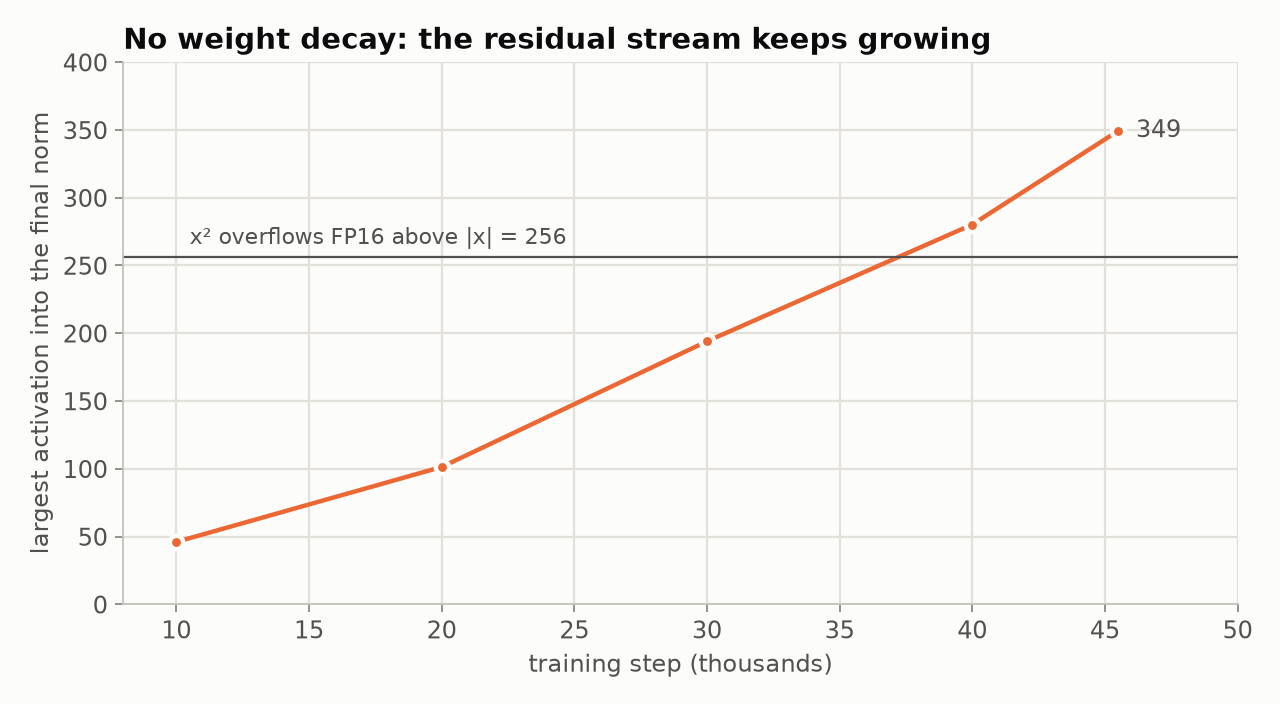
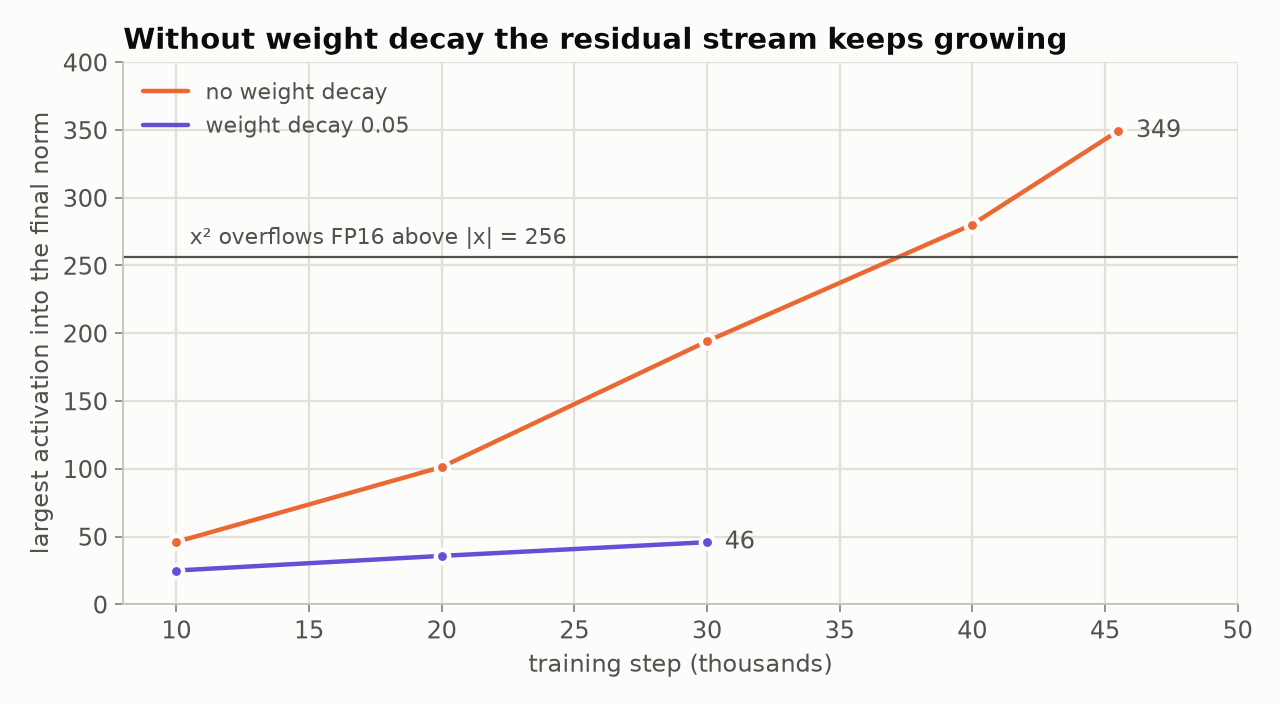
Final results: summary in NEXT_ROUND.md, blog draft completed
sims-400 replicates and plateaus ~1,860-1,900; sims-200 too cheap; the grown
final run ends ~1,970; weight decay keeps activations bounded (46 vs 171 at
30k) at equal strength. $139.49 of $200, 233 box-hours. Activation chart
gains the weight-decay run; speedup chart end labels de-collided.

diff --git a/docs/blog/make_charts.py b/docs/blog/make_charts.py
@@ -118,9 +118,14 @@ def load(box: str, suffix: str, max_step: int | None = None) -> dict:
     }
 
 
-def end_label(ax, x, y, text, dy=0):
+def end_label(ax, x, y, text, leader=None):
+    """End dot + value. leader=(dx, dy) in points moves the label off a crowded end, with a thin connector."""
     ax.plot([x], [y], "o", ms=6, color=ax.lines[-1].get_color(), mec=SURFACE, mew=2, zorder=5)
-    ax.annotate(text, (x, y), xytext=(8, dy), textcoords="offset points", va="center", color=INK2, fontsize=10)
+    if leader:
+        ax.annotate(text, (x, y), xytext=leader, textcoords="offset points", va="center", color=INK2, fontsize=10,
+                    arrowprops=dict(arrowstyle="-", color=MUTED, lw=0.8, shrinkA=2, shrinkB=4))
+    else:
+        ax.annotate(text, (x, y), xytext=(8, 0), textcoords="offset points", va="center", color=INK2, fontsize=10)
 
 
 def chart_speedup() -> None:
@@ -133,7 +138,7 @@ def chart_speedup() -> None:
     fig, ax = plt.subplots(figsize=(9, 5.2))
     for name, color, s in series:
         ax.plot(s["hours"], s["elo"], color=color, label=name)
-        end_label(ax, s["hours"][-1], s["elo"][-1], f"{s['elo'][-1]:,.0f}")
+        end_label(ax, s["hours"][-1], s["elo"][-1], f"{s['elo'][-1]:,.0f}", leader=(18, -34) if color == BLUE else None)
     ax.set_xlim(0, 23.5)
     ax.set_ylim(-100, 2100)
     ax.set_xlabel("hours of training (one RTX 4090 each)")
@@ -172,23 +177,27 @@ def chart_search_budget() -> None:
 
 
 def chart_fp16() -> None:
-    # Measured with artifacts/scratch/act_scale.py on the encoder arm's checkpoints
-    # (fp32, 512 puzzle positions): max |x| entering the final RMSNorm.
-    steps = [10_000, 20_000, 30_000, 40_000, 45_500]
-    max_abs = [46.0, 101.3, 194.0, 280.2, 349.3]
+    # Measured with artifacts/scratch/act_scale.py (fp32, 512 puzzle positions): max |x|
+    # entering the final RMSNorm. No decay: the encoder arm (E); decay: sims-400 + AdamW 0.05.
+    VIOLET = "#6250d6"  # validated against ORANGE (all-pairs, light)
+    series = [("no weight decay", ORANGE, [10_000, 20_000, 30_000, 40_000, 45_500], [46.0, 101.3, 194.0, 280.2, 349.3]),
+              ("weight decay 0.05", VIOLET, [10_000, 20_000, 30_000], [24.9, 35.7, 45.8])]
     fig, ax = plt.subplots(figsize=(8, 4.4))
-    ax.plot([s / 1000 for s in steps], max_abs, color=ORANGE)
-    for s, v in zip(steps, max_abs):
-        ax.plot([s / 1000], [v], "o", ms=6, color=ORANGE, mec=SURFACE, mew=2, zorder=5)
+    for name, color, steps, vals in series:
+        xs = [s / 1000 for s in steps]
+        ax.plot(xs, vals, color=color, label=name)
+        ax.plot(xs, vals, "o", ms=6, color=color, mec=SURFACE, mew=2, zorder=5)
+        ax.annotate(f"{vals[-1]:.0f}", (xs[-1], vals[-1]), xytext=(8, 0), textcoords="offset points",
+                    va="center", color=INK2)
     ax.axhline(256, color=INK2, lw=1)
     ax.annotate("x² overflows FP16 above |x| = 256", (10.5, 256), xytext=(0, 6), textcoords="offset points",
                 color=INK2, fontsize=10)
-    ax.annotate("349", (45.5, 349.3), xytext=(8, 0), textcoords="offset points", va="center", color=INK2)
     ax.set_xlim(8, 50)
     ax.set_ylim(0, 400)
     ax.set_xlabel("training step (thousands)")
     ax.set_ylabel("largest activation into the final norm")
-    ax.set_title("No weight decay: the residual stream keeps growing")
+    ax.set_title("Without weight decay the residual stream keeps growing")
+    ax.legend(loc="upper left", fontsize=10)
     fig.tight_layout()
     fig.savefig(OUT / "fp16_activation_growth.png")
     plt.close(fig)

diff --git a/docs/NEXT_ROUND.md b/docs/NEXT_ROUND.md
@@ -4,6 +4,48 @@ Started 2026-10-21. Budget: **$200 of rented GPU time** (Vast.ai), tracked by
 `scripts/vast/budget_guard.py`. This file is the plan and the lab notebook —
 results get appended to the log at the bottom as they land.
 
+## Results summary (final, 2026-10-23 16:51 UTC)
+
+Spent **$139.49** of $200: 14 rented RTX 4090 boxes, 233 box-hours. Ladder Elo
+is anchored on calibrated Stockfish/random/greedy players (random = 0), ±40
+per rating; hours are hours of training (downtime excluded).
+
+| recipe (one 4090 each) | ~900 Elo | 1,500 | 1,800 | at 8 h | plateau |
+|---|---|---|---|---|---|
+| `main` (original code) | ~20.5 h | — | — | 233 | 921 at 21.7 h, still rising |
+| + learning-signal fixes (ResNet) | ~3 h | ~16 h | — | 1,234 | ~1,500 at 21 h |
+| + 0.81M transformer encoder, 800/100 sims | 2.9 h | ~4 h | 8.0 h | 1,800 | ~1,950 from ~13 h |
+| + 400/50 sims (best per hour) | **2.3 h** | **3.5 h** | **6.0 h** | **1,847** | ~1,860-1,900 from ~11 h |
+
+What mattered and what didn't:
+- **Policy targets = MCTS visit distribution** is the dominant fix (−730 Elo
+  without it at 6M positions); searching with outcome-trained value heads is
+  an early accelerator; opening-only temperature is neutral; infrastructure
+  alone buys throughput, not learning.
+- **Encoder > ResNet**: +450-580 Elo at equal positions despite −32%
+  self-play throughput.
+- **400/50 simulations** beat 800/100 per hour and replicate (seed 2: 1,503
+  vs 1,504 at 3.5 h); **200/25 is too cheap** (−100 to −250 from 3 h,
+  flattens ~1,400).
+- **Growth**: ResNet growth a modest +0-90 Elo from 8 h (puzzles 60% vs 54%);
+  encoder growth from 2 layers or 8 layers from scratch: level per position,
+  behind per hour; encoder grown 4 -> 6 -> 8 at its plateau (final run,
+  step 67k): **~1,970**, no gain beyond noise. LR decay and resignation
+  calibration branches: same ~1,950.
+- **The "collapse" at 17 h was an FP16 bug**, not learning: the hand-written
+  RMSNorm overflowed in the TensorRT engine once activations passed 256
+  (no weight decay). Fixed (54ac876); re-rated, E's checkpoints never declined
+  (45.5k = 1,989). `scripts/trt_parity.py` checks engine vs PyTorch.
+- **Weight decay** (AdamW 0.05, matrices only) keeps the residual stream
+  bounded at equal strength: max activation into the final norm 46 vs 171 at
+  30k steps (weight norm 99 vs 164); 1,818 vs ~1,820. Its effect on the
+  plateau is untested (run ended at 8.5 h).
+
+Tooling added on the way: Vast launch/deadline/guard/sync CLI (`chessrl-vast`),
+per-run anchor ladder, combined dashboard with run toggles, keep-alive resume
+on boxes, and a CPU analysis board (`scripts/analysis_server.py`, dashboard
+page "Analysis"). Blog draft: `docs/blog/chessrl-next-round.mdx`.
+
 ## Why (audit of `main` @ 128893c)
 
 | Finding | Where | Consequence |
